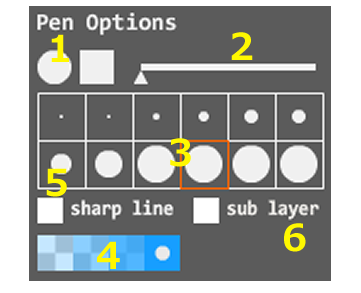
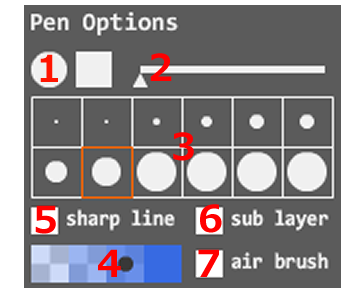
11.60

diff --git a/index.html b/index.html
@@ -105,7 +105,7 @@
           *正式な証明書を使用していないので、SmartScreenやセキュリティの脅威警告が表示されることがあります。<br>
           *it's not using a formal certificate, so you may get SmartScreen and security threat warnings.<p></p>
         </p>
-        <p><a href="https://github.com/guljam/2020FlashPaint/releases/download/setup/fofoPaint_Setup.zip"><span>Windows (ver 11.58)</span></a> <span>/ Mac (need tester)</span></p>
+        <p><a href="https://github.com/guljam/2020FlashPaint/releases/download/setup/fofoPaint_Setup.zip"><span>Windows (ver 11.60)</span></a> <span>/ Mac (need tester)</span></p>
         <p><a href="releasenote.txt">release note</a></p>
         <p>설치 오류가 날 경우 아래 링크에서 최신 버전의 Adobe Air Runtime을 설치 하시기 바랍니다.</p>
         <p>インストールエラーが発生したら、下記のリンクから最新バージョンのAdobe Air Runtimeをインストールしてください。  </p>

diff --git a/kr.html b/kr.html
@@ -197,8 +197,9 @@
       [4]: 펜 투명도<br>
       [5]: 샤프 라인 켜기/끄기, 켜면 날카로운 선의 느낌이 납니다.<br>
       [6]: 서브 레이어 켜기/끄기, 켜면 캔버스의 투명한 영역에 그림을 그립니다. 선화를 그리고 초반에 채색을 할 때 유용합니다. <br>
+      [7]: 에어브러시 켜기/끄기, 켜면 선의 윤곽이 흐려집니다. <br>
 
-      * 지우개와 펜(직선)의 크기,투명도 데이터는 따로 관리합니다.<p></p>
+      * 지우개와 펜(직선)의 크기,투명는 따로 저장됩니다.<p></p>
 
       <img src="img/pickerbox.png"><p></p>
 

diff --git a/en.html b/en.html
@@ -212,8 +212,9 @@
       [4]: Pen opacity<br>
       [5]: Sharp line ON/OFF, If turned ON, lines becomes little sharper.<br>
       [6]: Sub-layer ON/OFF, If turned ON, drawn on the transparent part of the canvas. This is useful when start coloring.<br> 
+      [7]: Air brush ON/OFF<br>
       <p></p>
-     * Eraser and pen (line) size and transparency data are managed separately.<p></p>
+     *Eraser and pen(+line) size and opacity are managed separately.<p></p>
 
       <img src="img/pickerbox.png"><p></p>
 

diff --git a/jp.html b/jp.html
@@ -210,6 +210,7 @@
       [4]: ペン透明度<br>
       [5]: Sharp line ON/OFF, ONになると線の感じがするどくなります。<br>
       [6]: Sub layer ON/OFF, ONになるとキャンバスの透明の部分に絵を書きます。これは線画を書いて、最初、色塗りするときに便利です。 <br>
+      [7]: Air brush ON/OFF, ONになると線の輪郭がぼけます。 <br>
 
 
       * 消しゴムとペン（＋直線）データは別です。<p></p>
